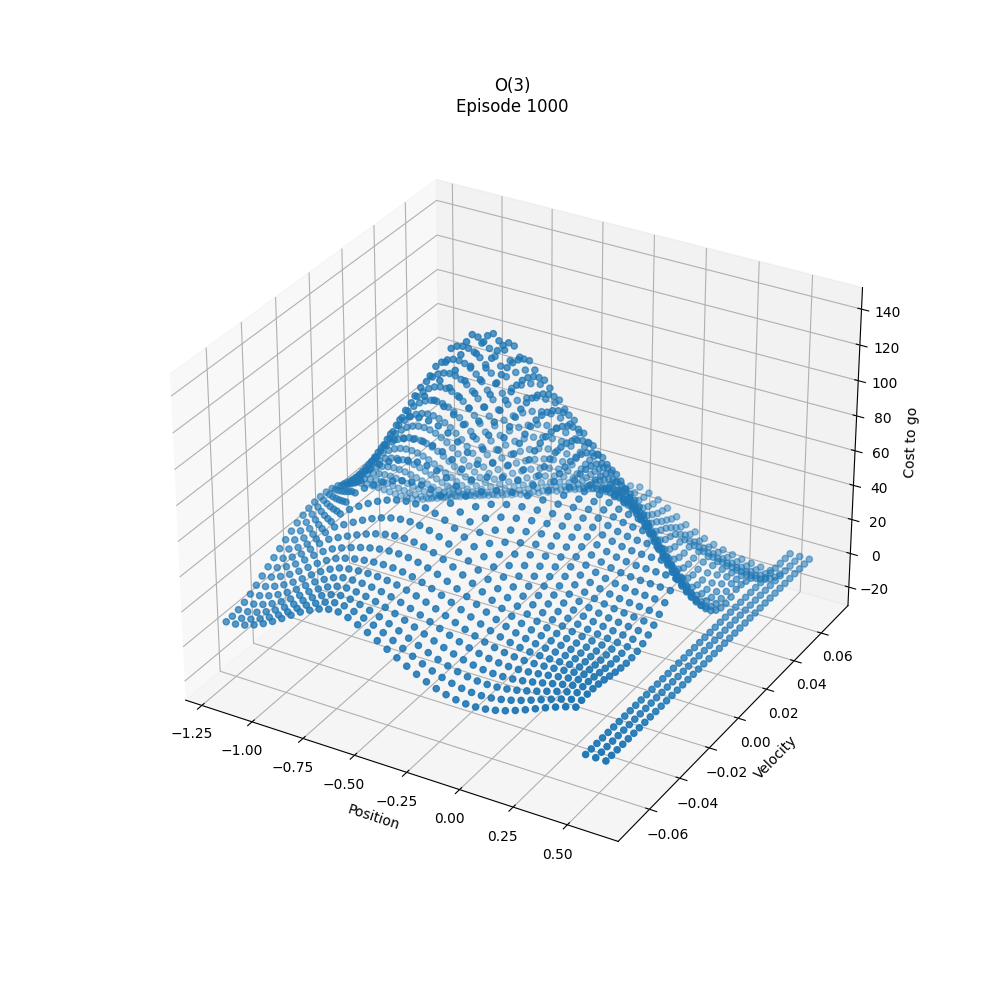
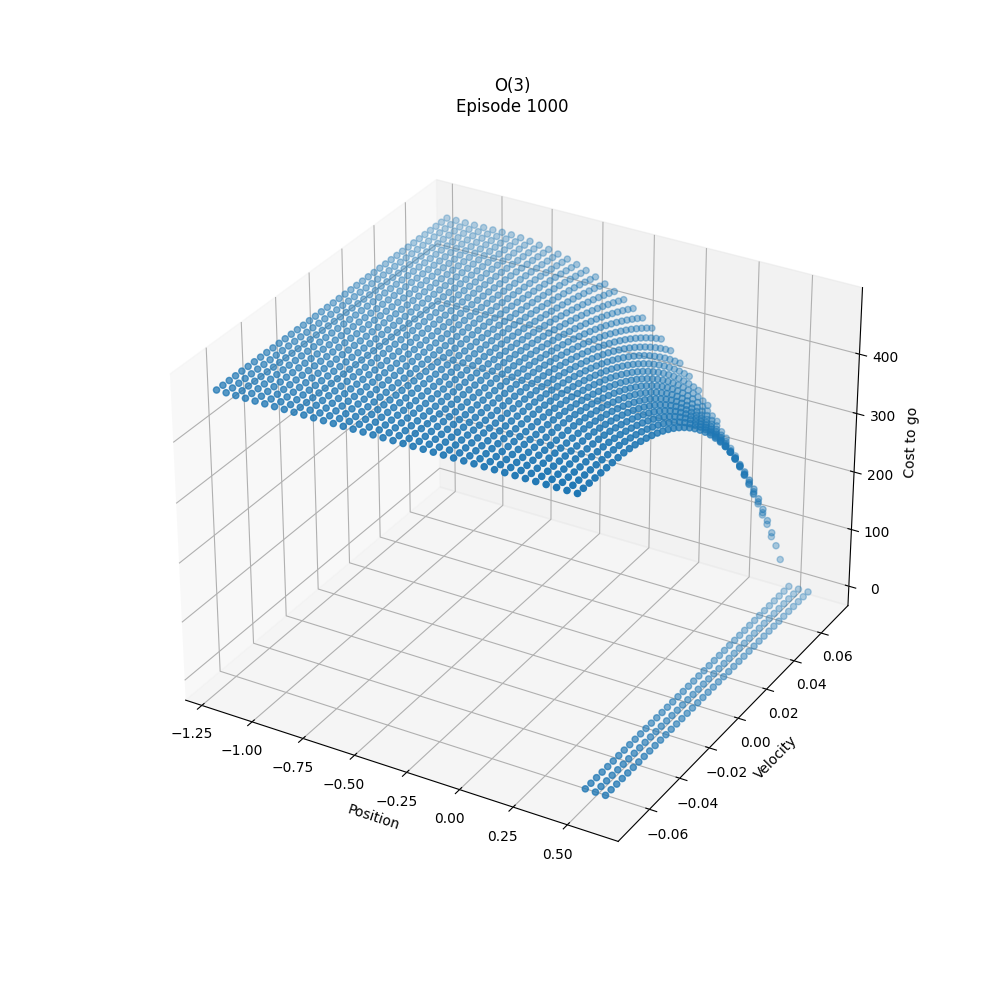
...

diff --git a/PA3/SarsaLambda.py b/PA3/SarsaLambda.py
@@ -1,4 +1,5 @@
-from itertools import product as prod
+from itertools import product
+from math import prod
 
 import numpy as np
 
@@ -10,23 +11,49 @@ class SarsaLambda:
         self.alpha = alpha
         self.gamma = gamma
         self.epsilon = epsilon
-        self.alphas = [alpha]
         self.order = order
         self.dims = len(model.low)
         self.max_steps = max_steps
+
+        self.num_basis = None
+        self.basis = None
+        self.alphas = None
+        self.weights = None
+
+        # self.setFourier(order)
+        self.setPolynomial(order)
+
+    def setFourier(self, order):
+        self.alphas = [self.alpha]
         self.num_basis = (order + 1) ** self.dims
 
-        # Set up Fourier basis functions and alpha values
-        all_consts = list(prod(range(order + 1), repeat=self.dims))
+        all_consts = list(product(range(order + 1), repeat=self.dims))
         all_consts.remove(all_consts[0])
         self.basis = [lambda _: 1]
+
         for i in range(self.num_basis - 1):
             const = np.array(all_consts[i])
             self.basis.append(lambda s, c=const: np.cos(np.pi * np.dot(s, c)))
-            self.alphas.append(alpha / np.linalg.norm(const))  # a_i = a / ||c_i||
-        self.alphas = np.array([self.alphas] * model.action_space.n).T
+            self.alphas.append(self.alpha / np.linalg.norm(const))  # a_i = a / ||c_i||
 
-        self.weights = np.zeros((self.num_basis, model.action_space.n))
+        self.alphas = np.array([self.alphas] * self.model.action_space.n).T
+        self.weights = np.zeros((self.num_basis, self.model.action_space.n))
+
+    def setPolynomial(self, order):
+        self.alphas = [self.alpha]
+        self.num_basis = (order + 1) ** self.dims
+
+        all_consts = list(product(range(order + 1), repeat=self.dims))
+        all_consts.remove(all_consts[0])
+        self.basis = [lambda _: 1]
+
+        for i in range(self.num_basis - 1):
+            const = np.array(all_consts[i])
+            self.basis.append(lambda s, c=const: prod(np.power(s, const)))
+            self.alphas.append(self.alpha)  # / np.linalg.norm(const))  # a_i = a / ||c_i||
+
+        self.alphas = np.array([self.alphas] * self.model.action_space.n).T
+        self.weights = np.zeros((self.num_basis, self.model.action_space.n))
 
     def getAction(self, S) -> int:
         if np.random.uniform() <= self.epsilon:

diff --git a/PA3/run_me.py b/PA3/run_me.py
@@ -10,12 +10,12 @@ from MountainCar import MountainCar
 from SarsaLambda import SarsaLambda as sl
 
 LAMBDA = 0.9
-ALPHA = 0.005
+ALPHA = 0.0005
 GAMMA = 1.0
 EPSILON = 0
 EPISODES = 1000
-RUNS = 15
-MAX_STEPS = 200
+RUNS = 1
+MAX_STEPS = 1000
 JOBS = max(min(cpu_count() - 1, RUNS), 1)
 
 
